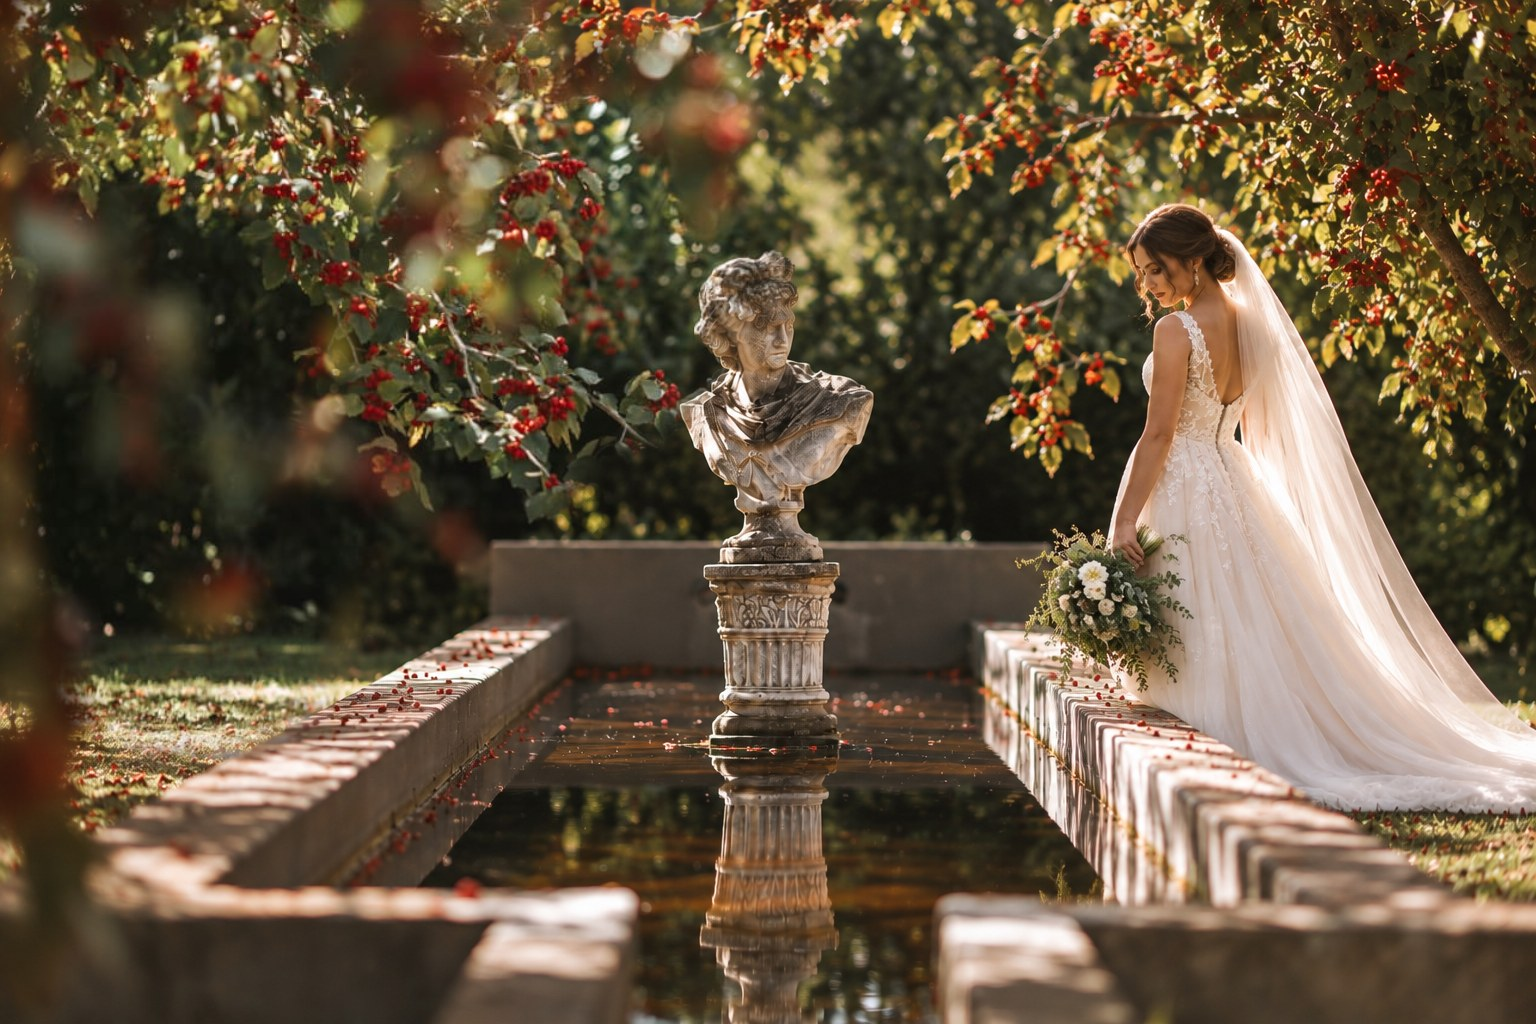
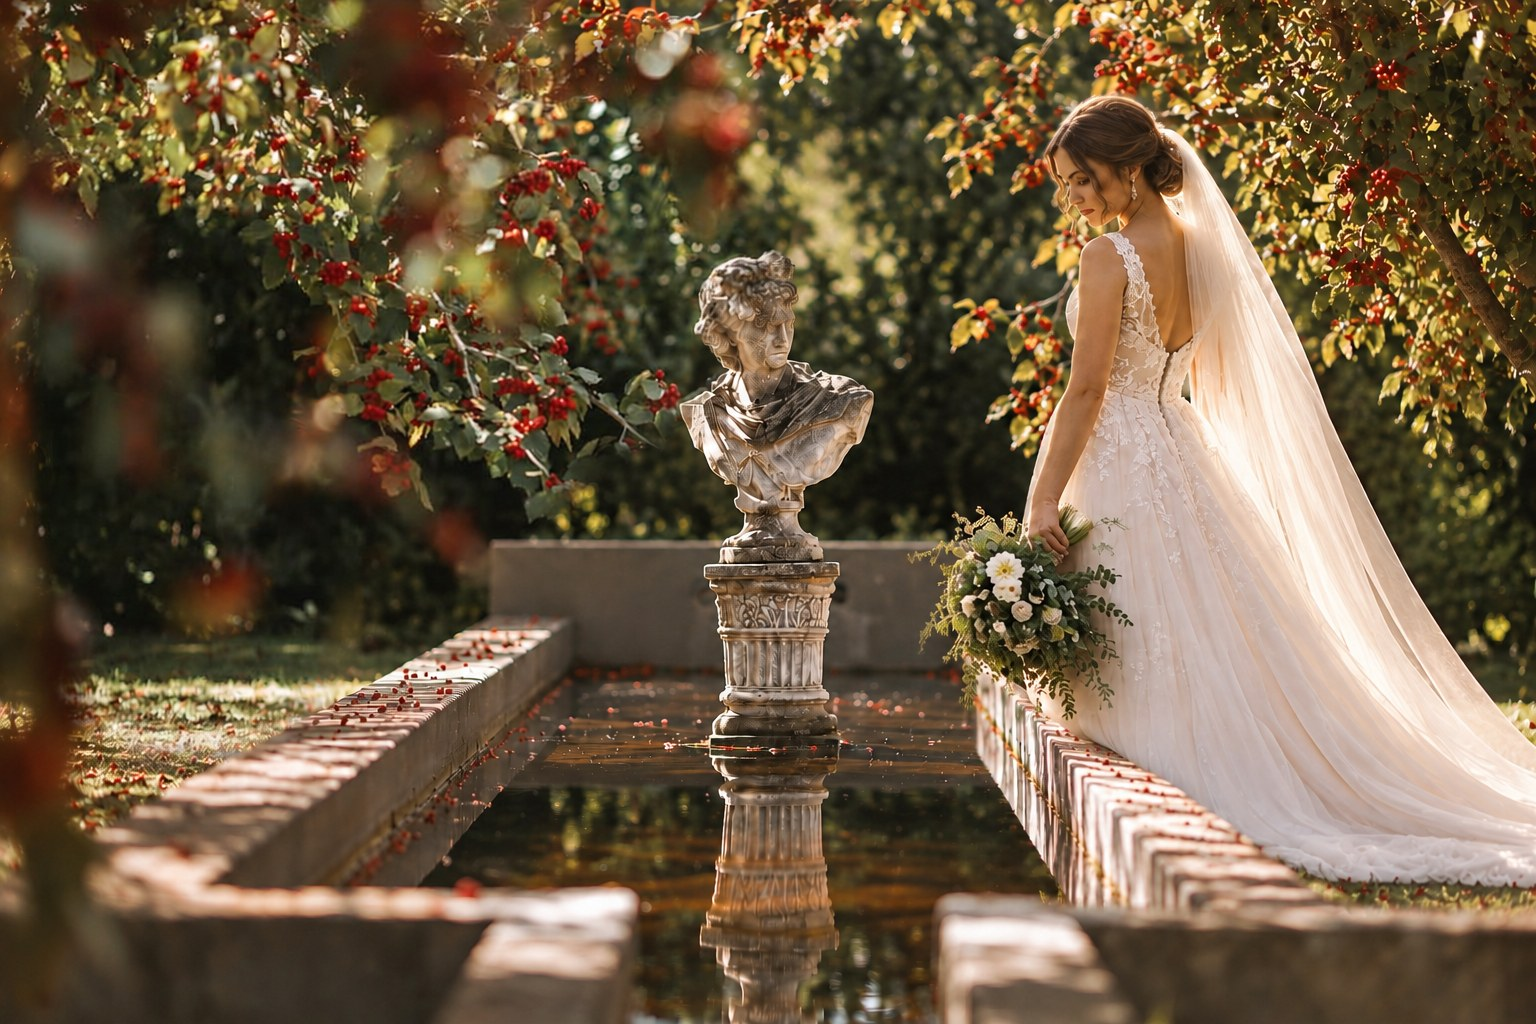
Update Weddings photo
Replace the garden wedding image on the Weddings page and home card.

diff --git a/weddings.html b/weddings.html
@@ -54,7 +54,7 @@
     <section class="section">
       <div class="container">
         <figure class="coming-soon-photo">
-          <img src="images/weddings.jpg?v=20260918b" alt="Bride in the Evergarde Estate garden by the reflecting pool" width="1800" height="1200" loading="eager">
+          <img src="images/weddings.jpg?v=20260918c" alt="Bride in the Evergarde Estate garden by the reflecting pool" width="1800" height="1200" loading="eager">
         </figure>
         <div class="coming-soon">
           <span class="badge">Coming soon</span>

diff --git a/index.html b/index.html
@@ -171,7 +171,7 @@
             </div>
           </a>
           <a class="card" href="weddings.html">
-            <div class="card-media"><img src="images/weddings.jpg?v=20260918b" alt="" width="640" height="400" loading="lazy"></div>
+            <div class="card-media"><img src="images/weddings.jpg?v=20260918c" alt="" width="640" height="400" loading="lazy"></div>
             <div class="card-body">
               <h3>Weddings</h3>
               <p>Wedding venue among the gardens and stone.</p>
